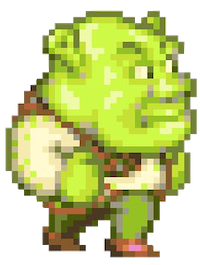
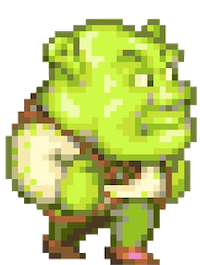
Change how Shrek sprites are working

diff --git a/src/scripts/Sprites/Player.js b/src/scripts/Sprites/Player.js
@@ -2,13 +2,13 @@ import Phaser from 'phaser';
 
 export default class Player extends Phaser.Physics.Arcade.Sprite {
   constructor(scene, x, y) {
-    super(scene, x, y, 'shrek');
+    super(scene, x, y, 'shrek-standing');
 
     scene.add.existing(this);
     scene.physics.world.enableBody(this);
     this.setGravityY(5000);
     this.setCollideWorldBounds(true);
-    this.setOrigin(0.5);
+    this.setOrigin(0.5, 1);
 
     this.cursors = scene.input.keyboard.createCursorKeys();
 
@@ -18,22 +18,37 @@ export default class Player extends Phaser.Physics.Arcade.Sprite {
 
   //Player clicking the DOWN key to crouch down
   update() {
-    console.log(this.y)
-    if (this.cursors.up.isDown && !this.cursors.down.isDown) {
-      this.setTexture('shrek');
-      this.y -= 25;
-    } else if (this.cursors.down.isDown) {
-      this.setTexture('shrek-2');
-      this.setSize(300, 100);
-      this.y += 10;
-      if(this.y >= 670){
-        this.y = 769;
-      }
-    }
-    if (!this.cursors.down.isDown) {
-      this.setTexture('shrek');
-      this.setSize(300, 300);
+    const pressingUp = this.cursors.up.isDown;
+    const pressingDown = this.cursors.down.isDown;
+    const onFloor = this.body.onFloor();
+
+    if (pressingUp && onFloor) {
+      this.setTexture('shrek-standing');
+      this.setVelocityY(-1600);
     }
 
+    if (pressingDown && onFloor) {
+      this.setTexture('shrek-crouching');
+    }
+
+    if (!pressingDown) {
+      this.setTexture('shrek-standing');
+    }
+
+    // if (pressingUp && !pressingDown) {
+    //   this.setTexture('shrek-standing');
+    //   this.y -= 25;
+    // } else if (pressingDown) {
+    //   this.setTexture('shrek-crouching');
+    //   this.setSize(300, 100);
+    //   this.y += 10;
+    //   if(this.y >= 670){
+    //     this.y = 769;
+    //   }
+    // }
+    // if (!pressingDown) {
+    //   this.setTexture('shrek-standing');
+    //   this.setSize(300, 300);
+    // }
   }
 }

diff --git a/src/scripts/Scenes/GameScene.js b/src/scripts/Scenes/GameScene.js
@@ -15,8 +15,8 @@ export default class GameScene extends Phaser.Scene {
   }
 
   preload() {
-    this.load.image('shrek', new URL('../../assets/newshrek.png', import.meta.url).href);
-    this.load.image('shrek-2', new URL('../../assets/shrek-crouch.png', import.meta.url).href);
+    this.load.image('shrek-standing', new URL('../../assets/newshrek.png', import.meta.url).href);
+    this.load.image('shrek-crouching', new URL('../../assets/shrek-crouch.png', import.meta.url).href);
     this.load.image('background',new URL('../../assets/background-forest.png', import.meta.url).href);
     this.load.image('stick', new URL('../../assets/log.png', import.meta.url).href);
     this.load.image('ground',new URL('../../assets/background-forest-ground.png', import.meta.url).href);
@@ -42,7 +42,7 @@ export default class GameScene extends Phaser.Scene {
     // this.physics.arcade.enable(this.ground);
     // this.background.autoScroll(-100, 0);
     this.obstacles = this.physics.add.group(); 
-    this.player = new Player(this, this.game.config.width / 4, this.game.config.height);
+    this.player = new Player(this, this.game.config.width / 4, this.game.config.height / 2);
     // this.obstacles = new Obstacle(this, this.game.config.width, this.game.config.height);
     this.obstacles.add(new Obstacle(this, this.game.config.width, this.game.config.height)); 
     //this.obstacles.add(new Obstacle(this, this.game.config.width + 300, this.game.config.height));
